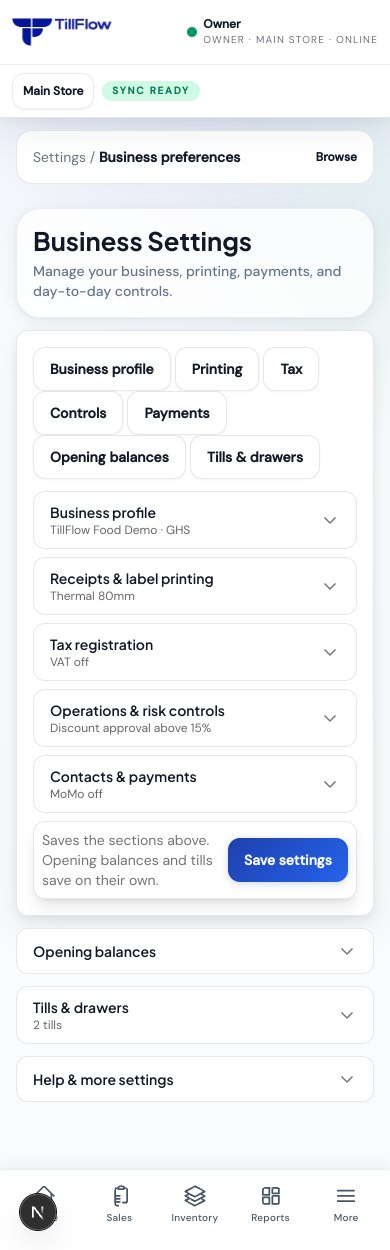
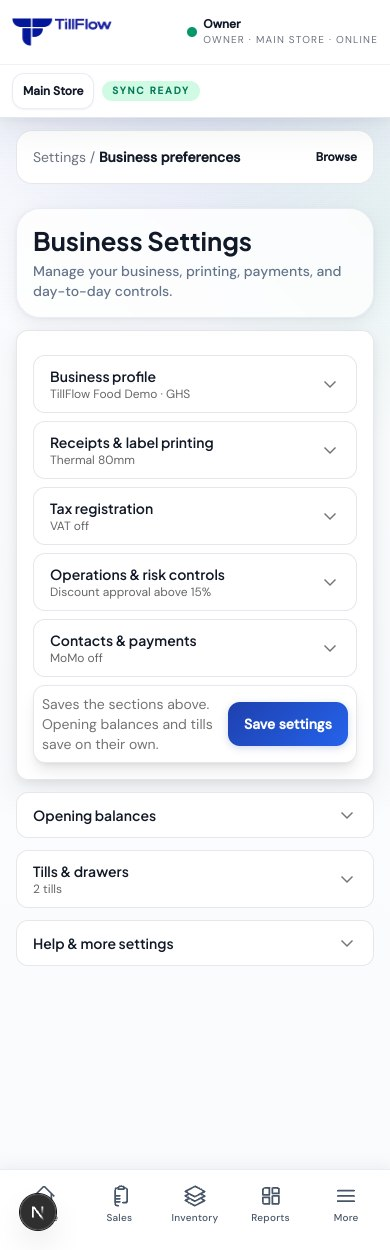
Remove redundant Business Settings section chips

diff --git a/app/(protected)/settings/page.tsx b/app/(protected)/settings/page.tsx
@@ -125,9 +125,6 @@ export default async function SettingsPage(props: { searchParams?: Promise<{ err
       <div className="card p-4 sm:p-6">
         <FormError error={searchParams?.error} />
         {searchParams?.saved === '1' && <p role="status" className="mb-4 rounded-xl border border-emerald-200 bg-emerald-50 p-3 text-sm text-emerald-900">Business settings saved.</p>}
-        <nav aria-label="Business settings sections" className="mb-3 flex flex-wrap gap-x-1 gap-y-0">
-          {[["profile", "Business profile"], ["printing", "Printing"], ["tax", "Tax"], ["controls", "Controls"], ["payments", "Payments"], ["opening-capital", "Opening balances"], ["tills", "Tills & drawers"]].map(([id, label]) => <a key={id} href={'#' + id} className="btn-ghost min-h-11 text-sm">{label}</a>)}
-        </nav>
         <form action={updateBusinessAction} className="space-y-2">
           <RevealInvalidSettingsField />
           <SettingsCard id="profile" title="Business profile" description={[business.name, business.currency].filter(Boolean).join(' · ')} grid>

diff --git a/components/settings-final-sweep.test.tsx b/components/settings-final-sweep.test.tsx
@@ -73,10 +73,10 @@ describe('Business Settings disclosures', () => {
     expect(form.querySelector('#opening-capital')).toBeNull();
   });
 
-  it('opens Opening balances on direct hash navigation', async () => {
-    window.history.replaceState({}, '', '/settings#opening-capital');
+  it.each(['opening-capital', 'payments'])('opens %s on direct hash navigation', async id => {
+    window.history.replaceState({}, '', '/settings#' + id);
     await renderSettings();
-    expect(document.getElementById('opening-capital')).toHaveAttribute('open');
+    expect(document.getElementById(id)).toHaveAttribute('open');
     expect(document.getElementById('profile')).not.toHaveAttribute('open');
   });
 
